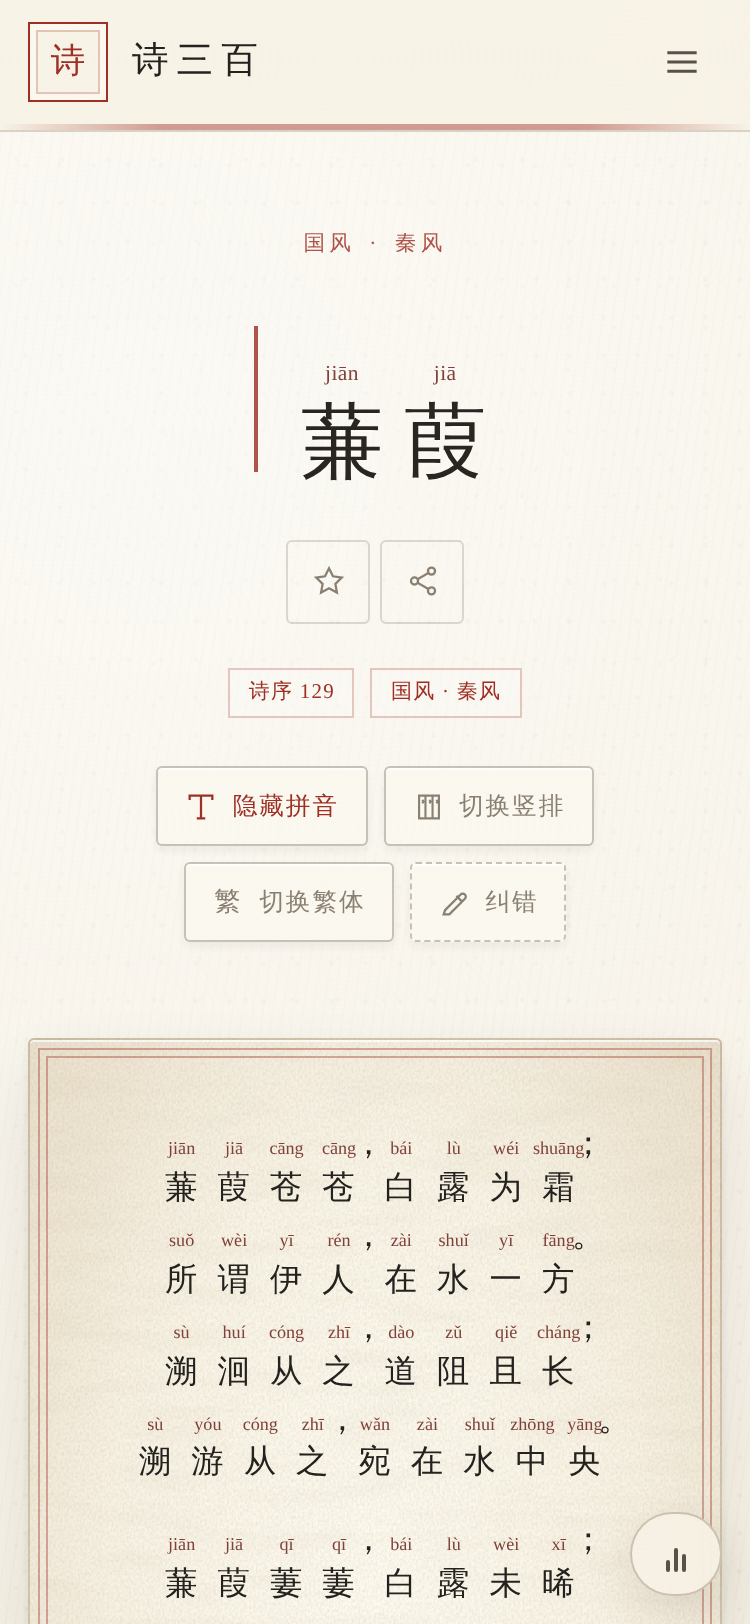
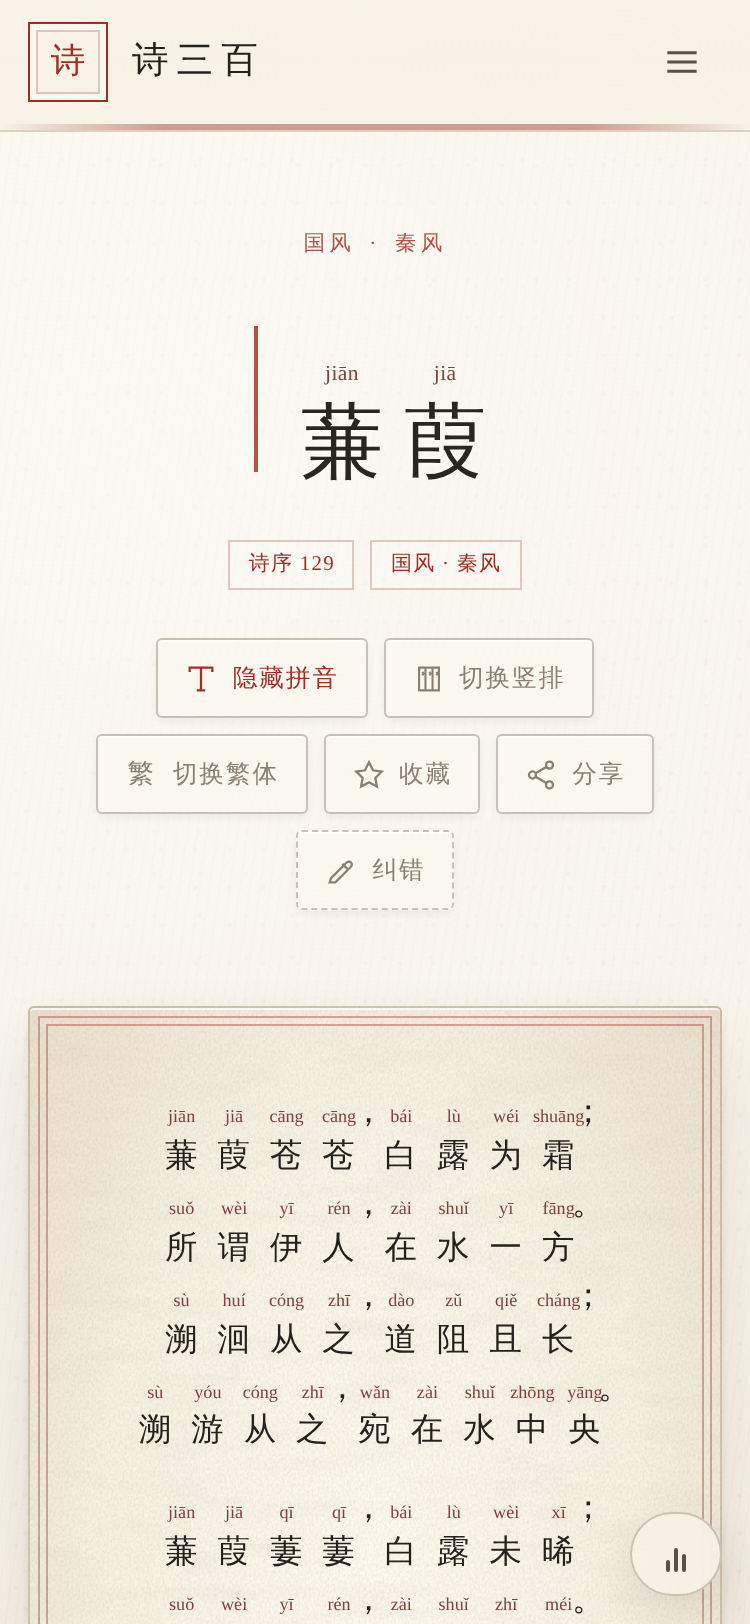
feat: move favorite and share into the labeled toolbar row under the title
Claude-Session: https://claude.ai/code/session_015rKdQ3ofz3dN1e1qfbAqre

diff --git a/src/pages/detail.js b/src/pages/detail.js
@@ -65,15 +65,14 @@ export async function renderDetail({ id }) {
     <article class="poem-page">
       <header class="poem-header ${showPinyin ? "" : "hide-pinyin"}" id="poemHeader">
         <a href="#/browse/${encodeURIComponent(poem.chapter)}" class="poem-breadcrumb" data-nav="/browse/${escapeAttribute(poem.chapter)}">${escapeHtml(poem.chapter)}<span>·</span>${escapeHtml(poem.section)}</a>
-        <div class="poem-title-row"><h1 class="${Array.from(displayTitle).length >= 5 ? "long-title" : ""}" aria-label="${escapeAttribute(displayTitle)}">${titleRuby}</h1><div class="poem-actions">
-          <button class="btn btn-ghost fav-btn ${favorited ? "favorited" : ""}" id="favBtn" title="${favorited ? "取消收藏" : "收藏"}" aria-pressed="${favorited}">${icon.favorite(favorited)}</button>
-          <button class="btn btn-ghost" id="shareBtn" title="分享">${icon.share}</button>
-        </div></div>
+        <div class="poem-title-row"><h1 class="${Array.from(displayTitle).length >= 5 ? "long-title" : ""}" aria-label="${escapeAttribute(displayTitle)}">${titleRuby}</h1></div>
         <div class="poem-tags"><span class="tag">诗序 ${String(poem.id).padStart(3, "0")}</span><span class="tag">${escapeHtml(poem.chapter)} · ${escapeHtml(poem.section)}</span></div>
         <div class="reading-tools">
         <button class="btn btn-ghost pinyin-toggle ${showPinyin ? "active" : ""}" id="pinyinToggle">${icon.pinyin}<span>${showPinyin ? "隐藏拼音" : "显示拼音"}</span></button>
         <button class="btn btn-ghost layout-toggle ${readingLayout === "vertical" ? "active" : ""}" id="layoutToggle" aria-pressed="${readingLayout === "vertical"}">${icon.layout}<span>${readingLayout === "vertical" ? "切换横排" : "切换竖排"}</span></button>
         <button class="btn btn-ghost script-toggle ${useTraditional ? "active" : ""}" id="scriptToggle" aria-pressed="${useTraditional}">${icon.script(useTraditional)}<span class="tool-label">${useTraditional ? "切换简体" : "切换繁体"}</span></button>
+        <button class="btn btn-ghost fav-btn ${favorited ? "favorited" : ""}" id="favBtn" title="${favorited ? "取消收藏" : "收藏"}" aria-pressed="${favorited}">${icon.favorite(favorited)}<span>${favorited ? "已收藏" : "收藏"}</span></button>
+        <button class="btn btn-ghost" id="shareBtn" title="分享">${icon.share}<span>分享</span></button>
         <button type="button" class="btn btn-ghost correction-btn" id="correctionBtn" aria-haspopup="dialog" title="发现错字或注音有误？点此纠错">${icon.correct}<span>纠错</span></button>
       </div>
       </header>
@@ -178,7 +177,7 @@ function bindActions(poem) {
       button.classList.toggle("favorited", added);
       button.setAttribute("aria-pressed", String(added));
       button.title = added ? "取消收藏" : "收藏";
-      button.innerHTML = icon.favorite(added);
+      button.innerHTML = `${icon.favorite(added)}<span>${added ? "已收藏" : "收藏"}</span>`;
       showToast(added ? "已收入藏诗" : "已移出藏诗");
     } catch (error) { showToast(error.message); }
     finally { button.disabled = false; }

diff --git a/src/styles/components.css b/src/styles/components.css
@@ -203,8 +203,6 @@
 .poem-header.hide-pinyin .ruby-unit { min-inline-size: 0; letter-spacing: .18em; }
 .poem-title-row h1::before { content: ""; position: absolute; top: 12%; bottom: 12%; left: 0; width: 2px; background: var(--vermilion); opacity: .82; }
 .poem-title-row h1.long-title { font-size: clamp(1.9rem, 4.2vw, 3rem); letter-spacing: .08em; }
-.poem-actions { display: flex; flex-wrap: nowrap; gap: 5px; }
-.poem-actions .btn { flex: 0 0 42px; width: 42px; min-width: 42px; max-width: 42px; min-height: 42px; padding: 0; overflow: hidden; border: 1px solid var(--line); white-space: nowrap; }
 .poem-tags { display: flex; justify-content: center; gap: 8px; margin-top: 22px; }
 /* 诗篇纸面：默认「宣纸」，另有 data-paper 变体，见下方「纸面方案」 */
 .poem-paper {
@@ -397,7 +395,6 @@ mark { padding: 0 2px; color: var(--vermilion); background: rgba(159,47,36,.12);
   .poem-title-row h1.long-title { font-size: clamp(1.72rem, 8.5vw, 2.35rem); letter-spacing: .05em; }
   .poem-paper { min-height: 440px; padding: 48px 26px; }
   .poem-title-row { flex-direction: column; }
-  .poem-actions { order: 2; }
 }
   .layout-vertical { padding: 42px 24px 38px; }
   .layout-vertical .poem-body { inline-size: clamp(350px, 58vh, 520px); }
